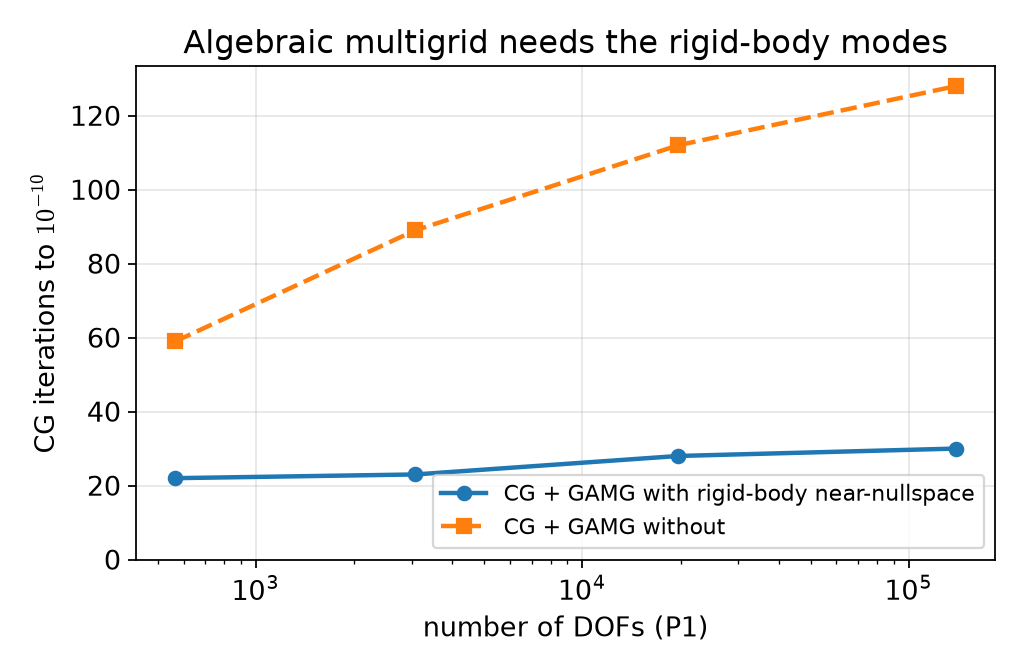
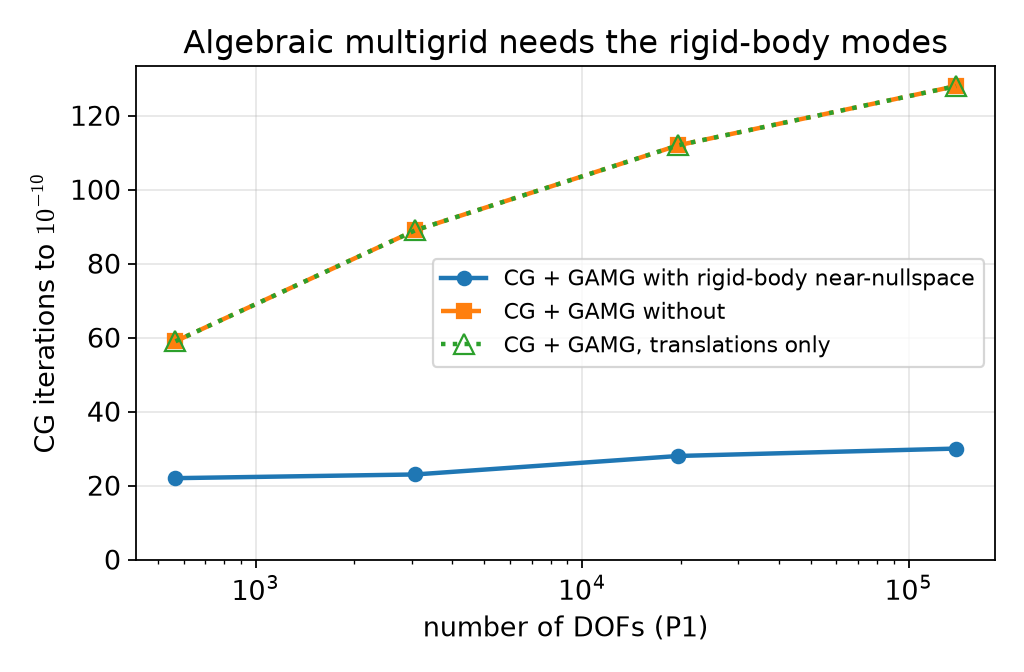
AMPS II Weeks 1, 3, 4, 5: measured checks from the textbook
Four measurements the ProSim textbook made while adapting these weeks.
Each number comes from the week's make_figs.py or the HW solution.

- Week 1, near-nullspace slide: giving GAMG only the three translations
  gives exactly the iteration counts of giving nothing (59, 89, 112,
  128), because the block size already implies them. The missing
  information is the rotations. The GAMG figure has a curve for this.
- Week 3, coupling table: the measured ratio of half-rise times with
  each metal's real delta (dt = 1e-3): steel 1.01138 against
  1 + delta = 1.01139, aluminium 1.02604 against 1.02607.
- Week 4, LLM pitfalls table and lab section 6 checklist: history
  (sig_n, p_n) committed after every Newton correction. Every step
  converges and max f = 5.7e-14, but u_r = 26.11 mm instead of 4.519.
  Twice the load steps gives 46.07 mm; the correct code changes by
  6.9e-5. Changing the load steps exposes it.
- Week 5, LLM pitfalls table: a staggered cap of 50 (ell = 0.02,
  h = 0.01) gives the same F_max, but 3 later steps stop at the cap and
  the crack energy is 1.483 G_c a instead of 1.426.

diff --git a/II/week03/W03_lecture.html b/II/week03/W03_lecture.html
@@ -503,28 +503,41 @@ Kee-Youn Yoo
 <p>1D strip in uniaxial strain, <span class="math inline">\sigma_{xx}=0</span> (free end): <span class="math inline">\varepsilon_{xx}=\beta\theta/(\lambda+2\mu)</span>, so the heat equation becomes <span class="math display">
 \rho c\,(1+\delta)\,\dot\theta=k\,\theta''\qquad\Rightarrow\qquad \text{diffusivity } \frac{\kappa}{1+\delta},\ \ \kappa=\frac{k}{\rho c}
 </span></p>
-<table class="caption-top">
+<table class="caption-top" style="width:100%;">
+<colgroup>
+<col style="width: 13%">
+<col style="width: 21%">
+<col style="width: 21%">
+<col style="width: 21%">
+<col style="width: 21%">
+</colgroup>
 <thead>
 <tr class="header">
-<th>Material (<span class="math inline">T_0=293</span> K)</th>
+<th><span class="math inline">T_0=293</span> K</th>
 <th style="text-align: center;"><span class="math inline">\delta</span></th>
-<th style="text-align: center;">one-way model: time scale off by</th>
+<th style="text-align: center;">one-way: time scale off by</th>
+<th style="text-align: center;">measured <span class="math inline">t_{50}</span> ratio</th>
+<th style="text-align: center;"><span class="math inline">1+\delta</span></th>
 </tr>
 </thead>
 <tbody>
 <tr class="odd">
-<td>steel (<span class="math inline">E</span> 210 GPa, <span class="math inline">\alpha</span> <span class="math inline">1.2\times10^{-5}</span>)</td>
+<td>steel</td>
 <td style="text-align: center;">0.0114</td>
 <td style="text-align: center;">1.1 %</td>
+<td style="text-align: center;">1.01138</td>
+<td style="text-align: center;">1.01139</td>
 </tr>
 <tr class="even">
-<td>aluminium (<span class="math inline">E</span> 70 GPa, <span class="math inline">\alpha</span> <span class="math inline">2.3\times10^{-5}</span>)</td>
+<td>aluminium</td>
 <td style="text-align: center;">0.0261</td>
 <td style="text-align: center;">2.6 %</td>
+<td style="text-align: center;">1.02604</td>
+<td style="text-align: center;">1.02607</td>
 </tr>
 </tbody>
 </table>
-<p>Small for metals — but it is a model error you can <strong>measure</strong>, not a belief. Part C uses <span class="math inline">\delta=0.5</span> (“what if”) to make it visible.</p>
+<p>Steel: <span class="math inline">E</span> 210 GPa, <span class="math inline">\alpha</span> <span class="math inline">1.2\times10^{-5}</span>; aluminium: 70 GPa, <span class="math inline">2.3\times10^{-5}</span>. Measured: the strip of Part C with each metal’s <span class="math inline">\delta</span>, <span class="math inline">\Delta t=10^{-3}</span>, half-rise time full / one-way. Small for metals — but a model error you can <strong>measure</strong>, not a belief. Part C uses <span class="math inline">\delta=0.5</span> (“what if”) to make it visible.</p>
 </section></section>
 <section>
 <section id="part-b-generalized-plane-strain-in-code" class="title-slide slide level1 center" data-background-color="#1f3864">

diff --git a/II/week04/W04_lecture.html b/II/week04/W04_lecture.html
@@ -809,9 +809,13 @@ J(\delta\mathbf u,\mathbf v)=\int_\Omega\big(\mathbb C^{\rm alg}\boldsymbol\vare
 <td>Prescribed displacement put into the boundary DOFs before the first solve</td>
 <td>first 2D step diverges (50 iterations); lifting with the converged tangent: 1 iteration</td>
 </tr>
+<tr class="even">
+<td>History <span class="math inline">(\boldsymbol\sigma_n,p_n)</span> updated after every Newton correction, not once per converged step</td>
+<td>every step converges and <span class="math inline">\max f=5.7\times10^{-14}</span>, but <span class="math inline">u_r=26.11</span> mm, not 4.519 (1D, <span class="math inline">0.95\,p_{\rm lim}</span>); twice the load steps: 46.07 mm (correct code: relative change <span class="math inline">6.9\times10^{-5}</span>)</td>
+</tr>
 </tbody>
 </table>
-<p>The fix is the same each time: a test whose exact answer you know <strong>before</strong> you run — <span class="math inline">f=0</span>, a finite difference, Lamé, <span class="math inline">p_y</span>, <span class="math inline">p_{\rm lim}</span>.</p>
+<p>The fix is the same each time: a test whose exact answer you know <strong>before</strong> you run — <span class="math inline">f=0</span>, a finite difference, Lamé, <span class="math inline">p_y</span>, <span class="math inline">p_{\rm lim}</span> — or, for the history, a change of the load steps.</p>
 </section>
 <section id="prompting-for-a-plasticity-model" class="slide level2 scrollable">
 <h2>Prompting for a plasticity model</h2>

diff --git a/II/week01/W01_lecture.html b/II/week01/W01_lecture.html
@@ -544,6 +544,7 @@ a(\mathbf u,\mathbf v)=\int_\Omega\boldsymbol\sigma(\mathbf u):\boldsymbol\varep
 <h2>Near-nullspace: measured</h2>
 
 <img data-src="figs/w01_gamg_iterations.png" class="quarto-figure quarto-figure-center r-stretch" style="width:60.0%"><p>P1, <code>-np 2</code>, relative tolerance <span class="math inline">10^{-10}</span>: <strong>22, 23, 28, 30</strong> iterations with the rigid-body modes; <strong>59, 89, 112, 128</strong> without (567 → 139 587 DOFs).</p>
+<p>Only the three translations: <strong>59, 89, 112, 128</strong> — exactly as without. The block size 3 of the matrix already implies them; the information GAMG is missing is the <strong>rotations</strong>.</p>
 </section>
 <section id="reaction-forces-two-ways" class="slide level2">
 <h2>Reaction forces: two ways</h2>

diff --git a/II/week05/W05_lecture.html b/II/week05/W05_lecture.html
@@ -745,7 +745,7 @@ Kee-Youn Yoo
 </tr>
 <tr class="even">
 <td>Staggered loop with a silent iteration cap</td>
-<td>non-converged steps plotted as results</td>
+<td>non-converged steps plotted as results: cap 50 (<span class="math inline">\ell=0.02</span>, <span class="math inline">h=0.01</span>) — same <span class="math inline">F_{\max}</span> (the peak step converges), but 3 later steps stop at the cap and the crack energy is <span class="math inline">1.483\,G_ca</span> instead of 1.426</td>
 </tr>
 <tr class="odd">
 <td>All of <span class="math inline">\int\gamma(d)</span> reported as crack energy</td>
